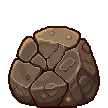
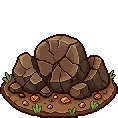
deploy mié 29/07/2026 21:15:55,05

diff --git a/public/game/farm.js b/public/game/farm.js
@@ -733,15 +733,20 @@ class FarmScene extends Phaser.Scene {
     // lotes: pasar de "creciendo" a "listo"
     for (const pl of this.plots) {
       // listo sin cosechar: cuenta regresiva al marchitado
+      // el contador del cultivo solo aparece con el cursor encima (igual que árboles y nodos)
+      const pp = this.input.activePointer;
+      const plOver = Math.abs(pp.worldX - pl.cx) < T * 0.55 && Math.abs(pp.worldY - (pl.by - T * 0.2)) < T * 0.75;
       if (pl.state === "ready" && pl.witherAt) {
         const left = pl.witherAt - t;
         if (left <= 0) { this.setWithered(pl); this.syncPlots(); log("🥀 Un cultivo se marchitó sin cosechar.", "bad"); toast("🥀 Cultivo marchito"); continue; }
-        if (left < 30000) pl.timer.setText("🥀 " + Math.ceil(left / 1000) + "s").setVisible(true);
+        if (left < 30000 && plOver) pl.timer.setText("🥀 " + Math.ceil(left / 1000) + "s").setVisible(true);
+        else pl.timer.setVisible(false);
       }
       if (pl.state !== "growing") continue;
       if (t >= pl.readyAt) { pl.state = "ready"; pl.readyAt = 0; pl.witherAt = t + WITHER_MS; this.showReadyCrop(pl); this.syncPlots(); }
       else {
-        pl.timer.setText(Math.max(0, Math.ceil((pl.readyAt - t) / 1000)) + "s").setVisible(true);
+        if (plOver) pl.timer.setText(Math.max(0, Math.ceil((pl.readyAt - t) / 1000)) + "s").setVisible(true);
+        else pl.timer.setVisible(false);
         // a media cosecha: la planta intermedia (se asoma la verdura) o el brote más grande
         if (!pl.half && pl.growTotal && (pl.readyAt - t) <= pl.growTotal / 2) {
           pl.half = true;

diff --git a/public/game/boot.js b/public/game/boot.js
@@ -18,9 +18,9 @@ class BootScene extends Phaser.Scene {
     // arte cozy nuevo (v2 rompe el caché del arte viejo)
     L.push(["tree_stump", P + "tree_stump.png?v=2"]);
     L.push(["sprout", P + "sprout.png?v=4"]);
-    // v6: restos sobre su parche de tierra (consistentes con los nodos plantados)
+    // v7: restos correctos sobre su parche de tierra (los v6 venían de una copia vieja)
     ["node_stone_mined","node_bronze_mined","node_gold_mined","node_diamond_mined","node_netherite_mined"]
-      .forEach(k => L.push([k, P + k + ".png?v=6"]));
+      .forEach(k => L.push([k, P + k + ".png?v=7"]));
     L.push(["dummy", P + "dummy.png"]);   // muñeco de práctica de espada
     L.push(["cofre", P + "cofre.png"]);   // cofre depósito
     L.push(["withered", P + "withered.png?v=2"]);      // cultivo marchito cozy
@@ -46,8 +46,8 @@ class BootScene extends Phaser.Scene {
   preload() {
     // ATLAS: todos los sprites del mundo en 2 archivos (mucho más liviano para el server free).
     // Si el atlas no llega, ensureAll() baja los archivos sueltos como respaldo.
-    this.load.image("__atlas", "assets/atlas.png?v=14");
-    this.load.json("__atlasmap", "assets/atlas.json?v=14");
+    this.load.image("__atlas", "assets/atlas.png?v=15");
+    this.load.json("__atlasmap", "assets/atlas.json?v=15");
 
     // barra de carga simple
     const w = this.scale.width, h = this.scale.height;
